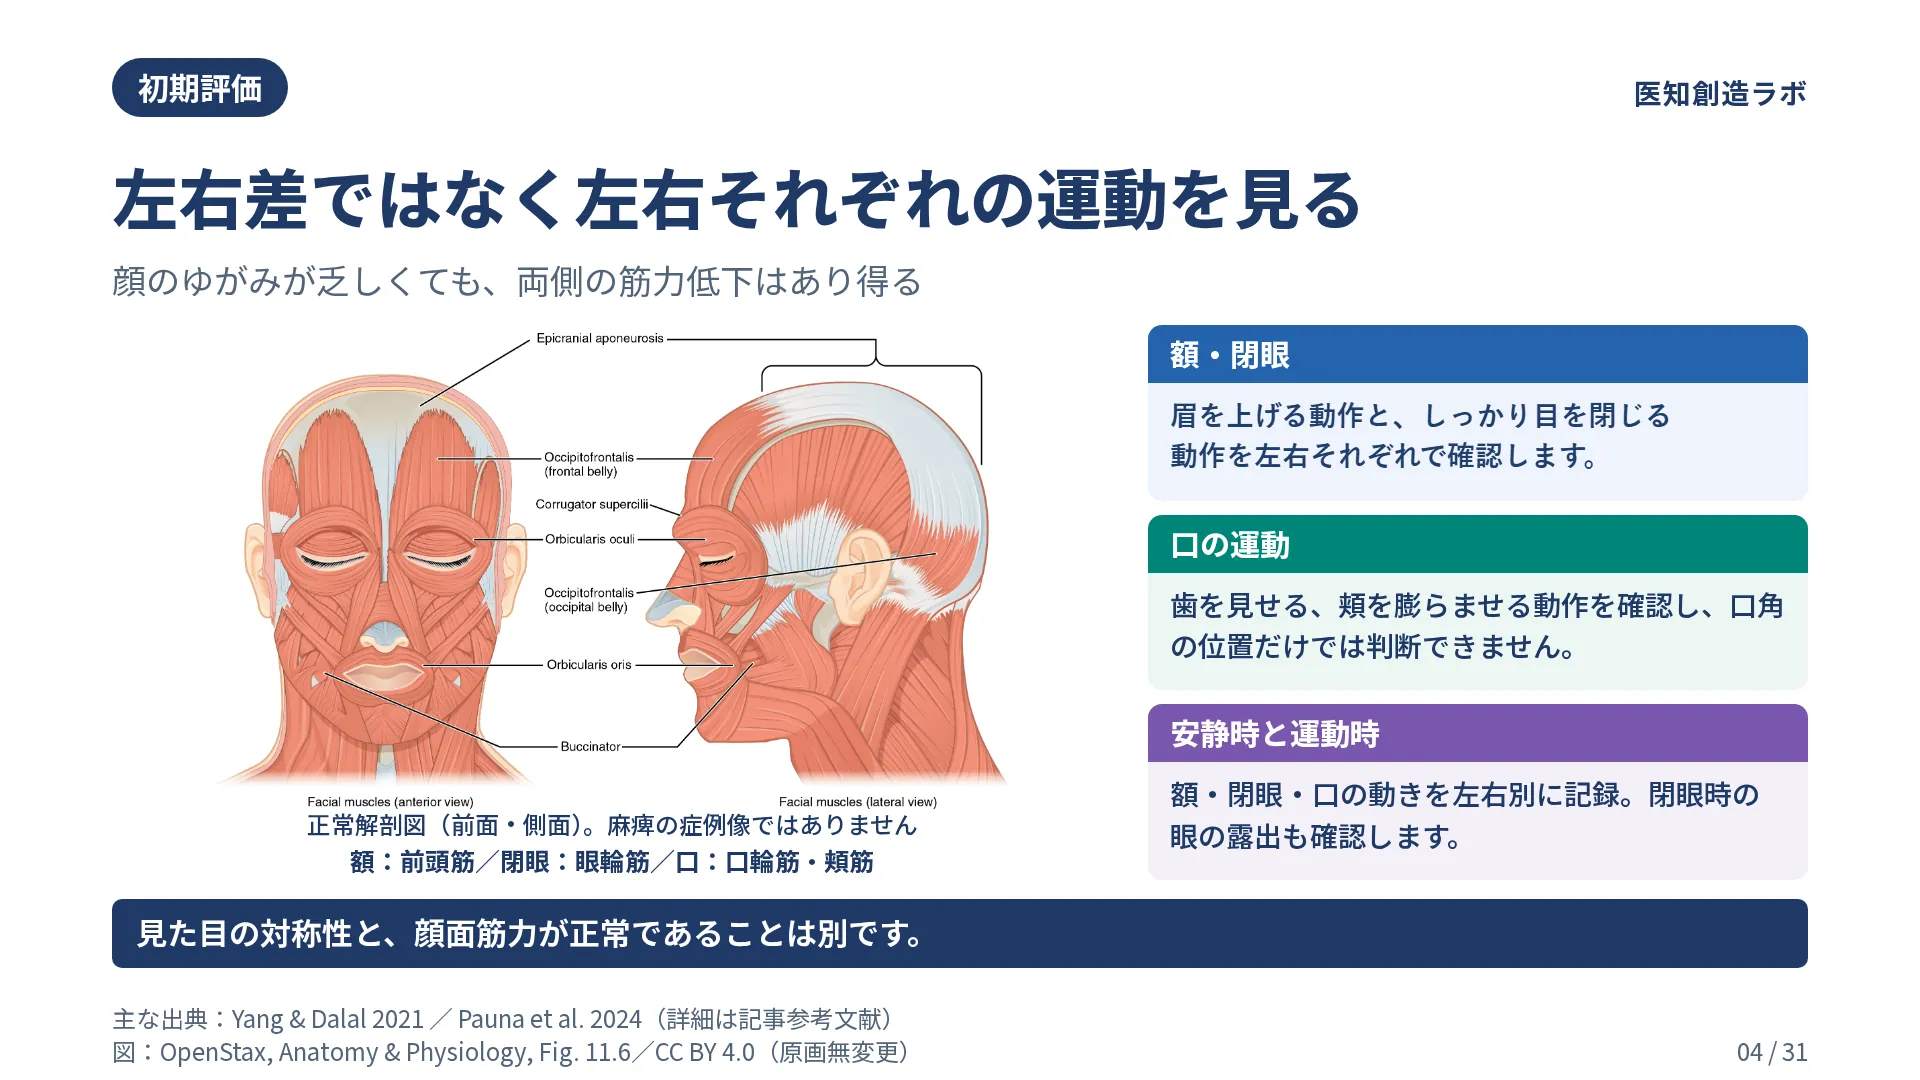
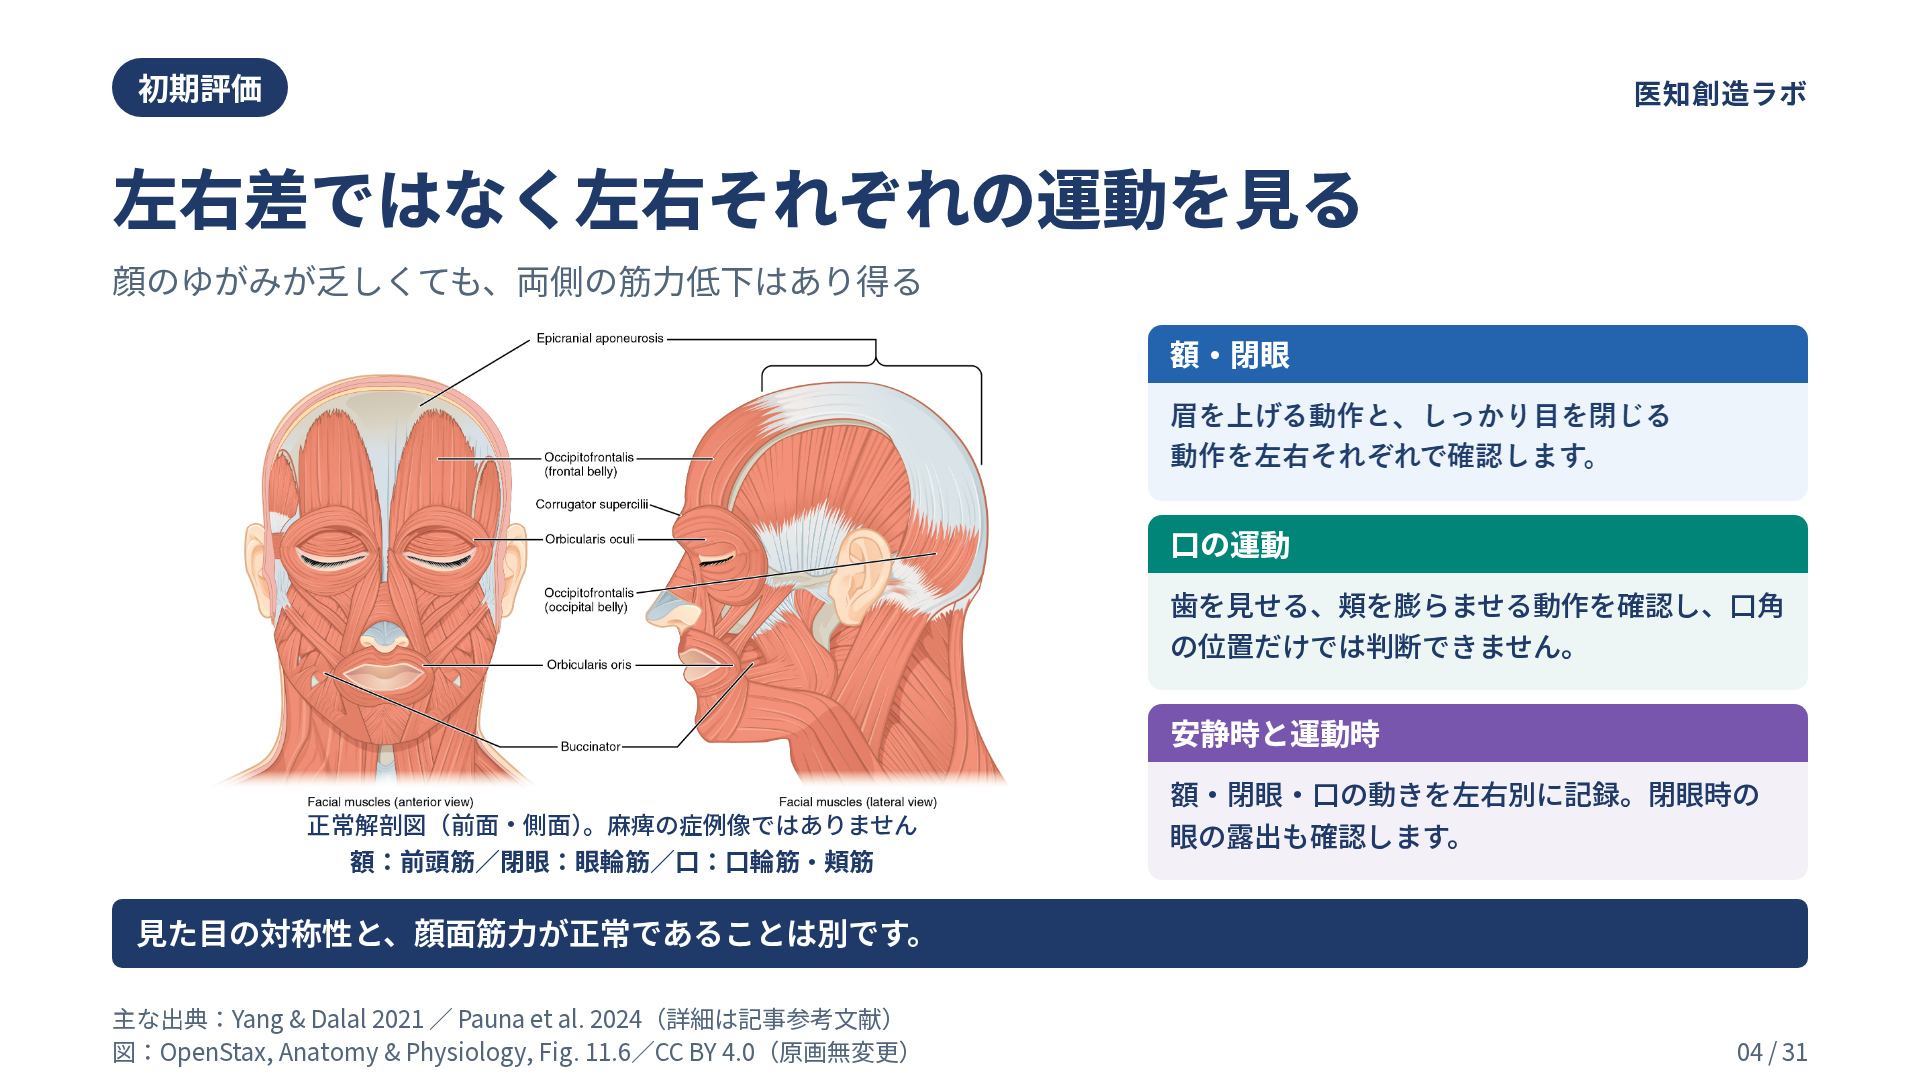
Preserve reflowed slide pixels with lossless WebP

Changed region(s): [[0.625, 0.4889, 0.6875, 0.5194]]

diff --git a/slides/bilateral-facial-palsy-differential/index.html b/slides/bilateral-facial-palsy-differential/index.html
@@ -267,7 +267,7 @@
 <div class="container">
   <div class="action-bar"><a class="btn btn-info" href="https://blog.ichisouzo-lab.com/entry/2026/11/12/220851">解説記事を読む</a><a class="btn btn-info" href="image-credits.html">図版出典・ライセンス</a><a class="btn btn-info" href="infographic.html">原寸インフォグラフィック</a>
     
-    <a class="btn btn-pdf" href="slides.pdf?v=20261112-typography" target="_blank" rel="noopener">
+    <a class="btn btn-pdf" href="slides.pdf?v=20261112-typography-lossless" target="_blank" rel="noopener">
       📄 PDFをダウンロード
     </a>
     
@@ -301,7 +301,7 @@
     </div>
     <div class="slide-card" data-idx="3">
       <span class="slide-num">4 / 31</span>
-      <img src="slide-04.webp?v=20261112-typography" alt="スライド4" loading="lazy">
+      <img src="slide-04.webp?v=20261112-typography-lossless" alt="スライド4" loading="lazy">
     </div>
     <div class="slide-card" data-idx="4">
       <span class="slide-num">5 / 31</span>
@@ -309,7 +309,7 @@
     </div>
     <div class="slide-card" data-idx="5">
       <span class="slide-num">6 / 31</span>
-      <img src="slide-06.webp?v=20261112-typography" alt="スライド6" loading="lazy">
+      <img src="slide-06.webp?v=20261112-typography-lossless" alt="スライド6" loading="lazy">
     </div>
     <div class="slide-card" data-idx="6">
       <span class="slide-num">7 / 31</span>
@@ -317,7 +317,7 @@
     </div>
     <div class="slide-card" data-idx="7">
       <span class="slide-num">8 / 31</span>
-      <img src="slide-08.webp?v=20261112-typography" alt="スライド8" loading="lazy">
+      <img src="slide-08.webp?v=20261112-typography-lossless" alt="スライド8" loading="lazy">
     </div>
     <div class="slide-card" data-idx="8">
       <span class="slide-num">9 / 31</span>
@@ -333,19 +333,19 @@
     </div>
     <div class="slide-card" data-idx="11">
       <span class="slide-num">12 / 31</span>
-      <img src="slide-12.webp?v=20261112-typography" alt="スライド12" loading="lazy">
+      <img src="slide-12.webp?v=20261112-typography-lossless" alt="スライド12" loading="lazy">
     </div>
     <div class="slide-card" data-idx="12">
       <span class="slide-num">13 / 31</span>
-      <img src="slide-13.webp?v=20261112-typography" alt="スライド13" loading="lazy">
+      <img src="slide-13.webp?v=20261112-typography-lossless" alt="スライド13" loading="lazy">
     </div>
     <div class="slide-card" data-idx="13">
       <span class="slide-num">14 / 31</span>
-      <img src="slide-14.webp?v=20261112-typography" alt="スライド14" loading="lazy">
+      <img src="slide-14.webp?v=20261112-typography-lossless" alt="スライド14" loading="lazy">
     </div>
     <div class="slide-card" data-idx="14">
       <span class="slide-num">15 / 31</span>
-      <img src="slide-15.webp?v=20261112-typography" alt="スライド15" loading="lazy">
+      <img src="slide-15.webp?v=20261112-typography-lossless" alt="スライド15" loading="lazy">
     </div>
     <div class="slide-card" data-idx="15">
       <span class="slide-num">16 / 31</span>
@@ -353,7 +353,7 @@
     </div>
     <div class="slide-card" data-idx="16">
       <span class="slide-num">17 / 31</span>
-      <img src="slide-17.webp?v=20261112-typography" alt="スライド17" loading="lazy">
+      <img src="slide-17.webp?v=20261112-typography-lossless" alt="スライド17" loading="lazy">
     </div>
     <div class="slide-card" data-idx="17">
       <span class="slide-num">18 / 31</span>
@@ -377,7 +377,7 @@
     </div>
     <div class="slide-card" data-idx="22">
       <span class="slide-num">23 / 31</span>
-      <img src="slide-23.webp?v=20261112-typography" alt="スライド23" loading="lazy">
+      <img src="slide-23.webp?v=20261112-typography-lossless" alt="スライド23" loading="lazy">
     </div>
     <div class="slide-card" data-idx="23">
       <span class="slide-num">24 / 31</span>
@@ -385,7 +385,7 @@
     </div>
     <div class="slide-card" data-idx="24">
       <span class="slide-num">25 / 31</span>
-      <img src="slide-25.webp?v=20261112-typography" alt="スライド25" loading="lazy">
+      <img src="slide-25.webp?v=20261112-typography-lossless" alt="スライド25" loading="lazy">
     </div>
     <div class="slide-card" data-idx="25">
       <span class="slide-num">26 / 31</span>
